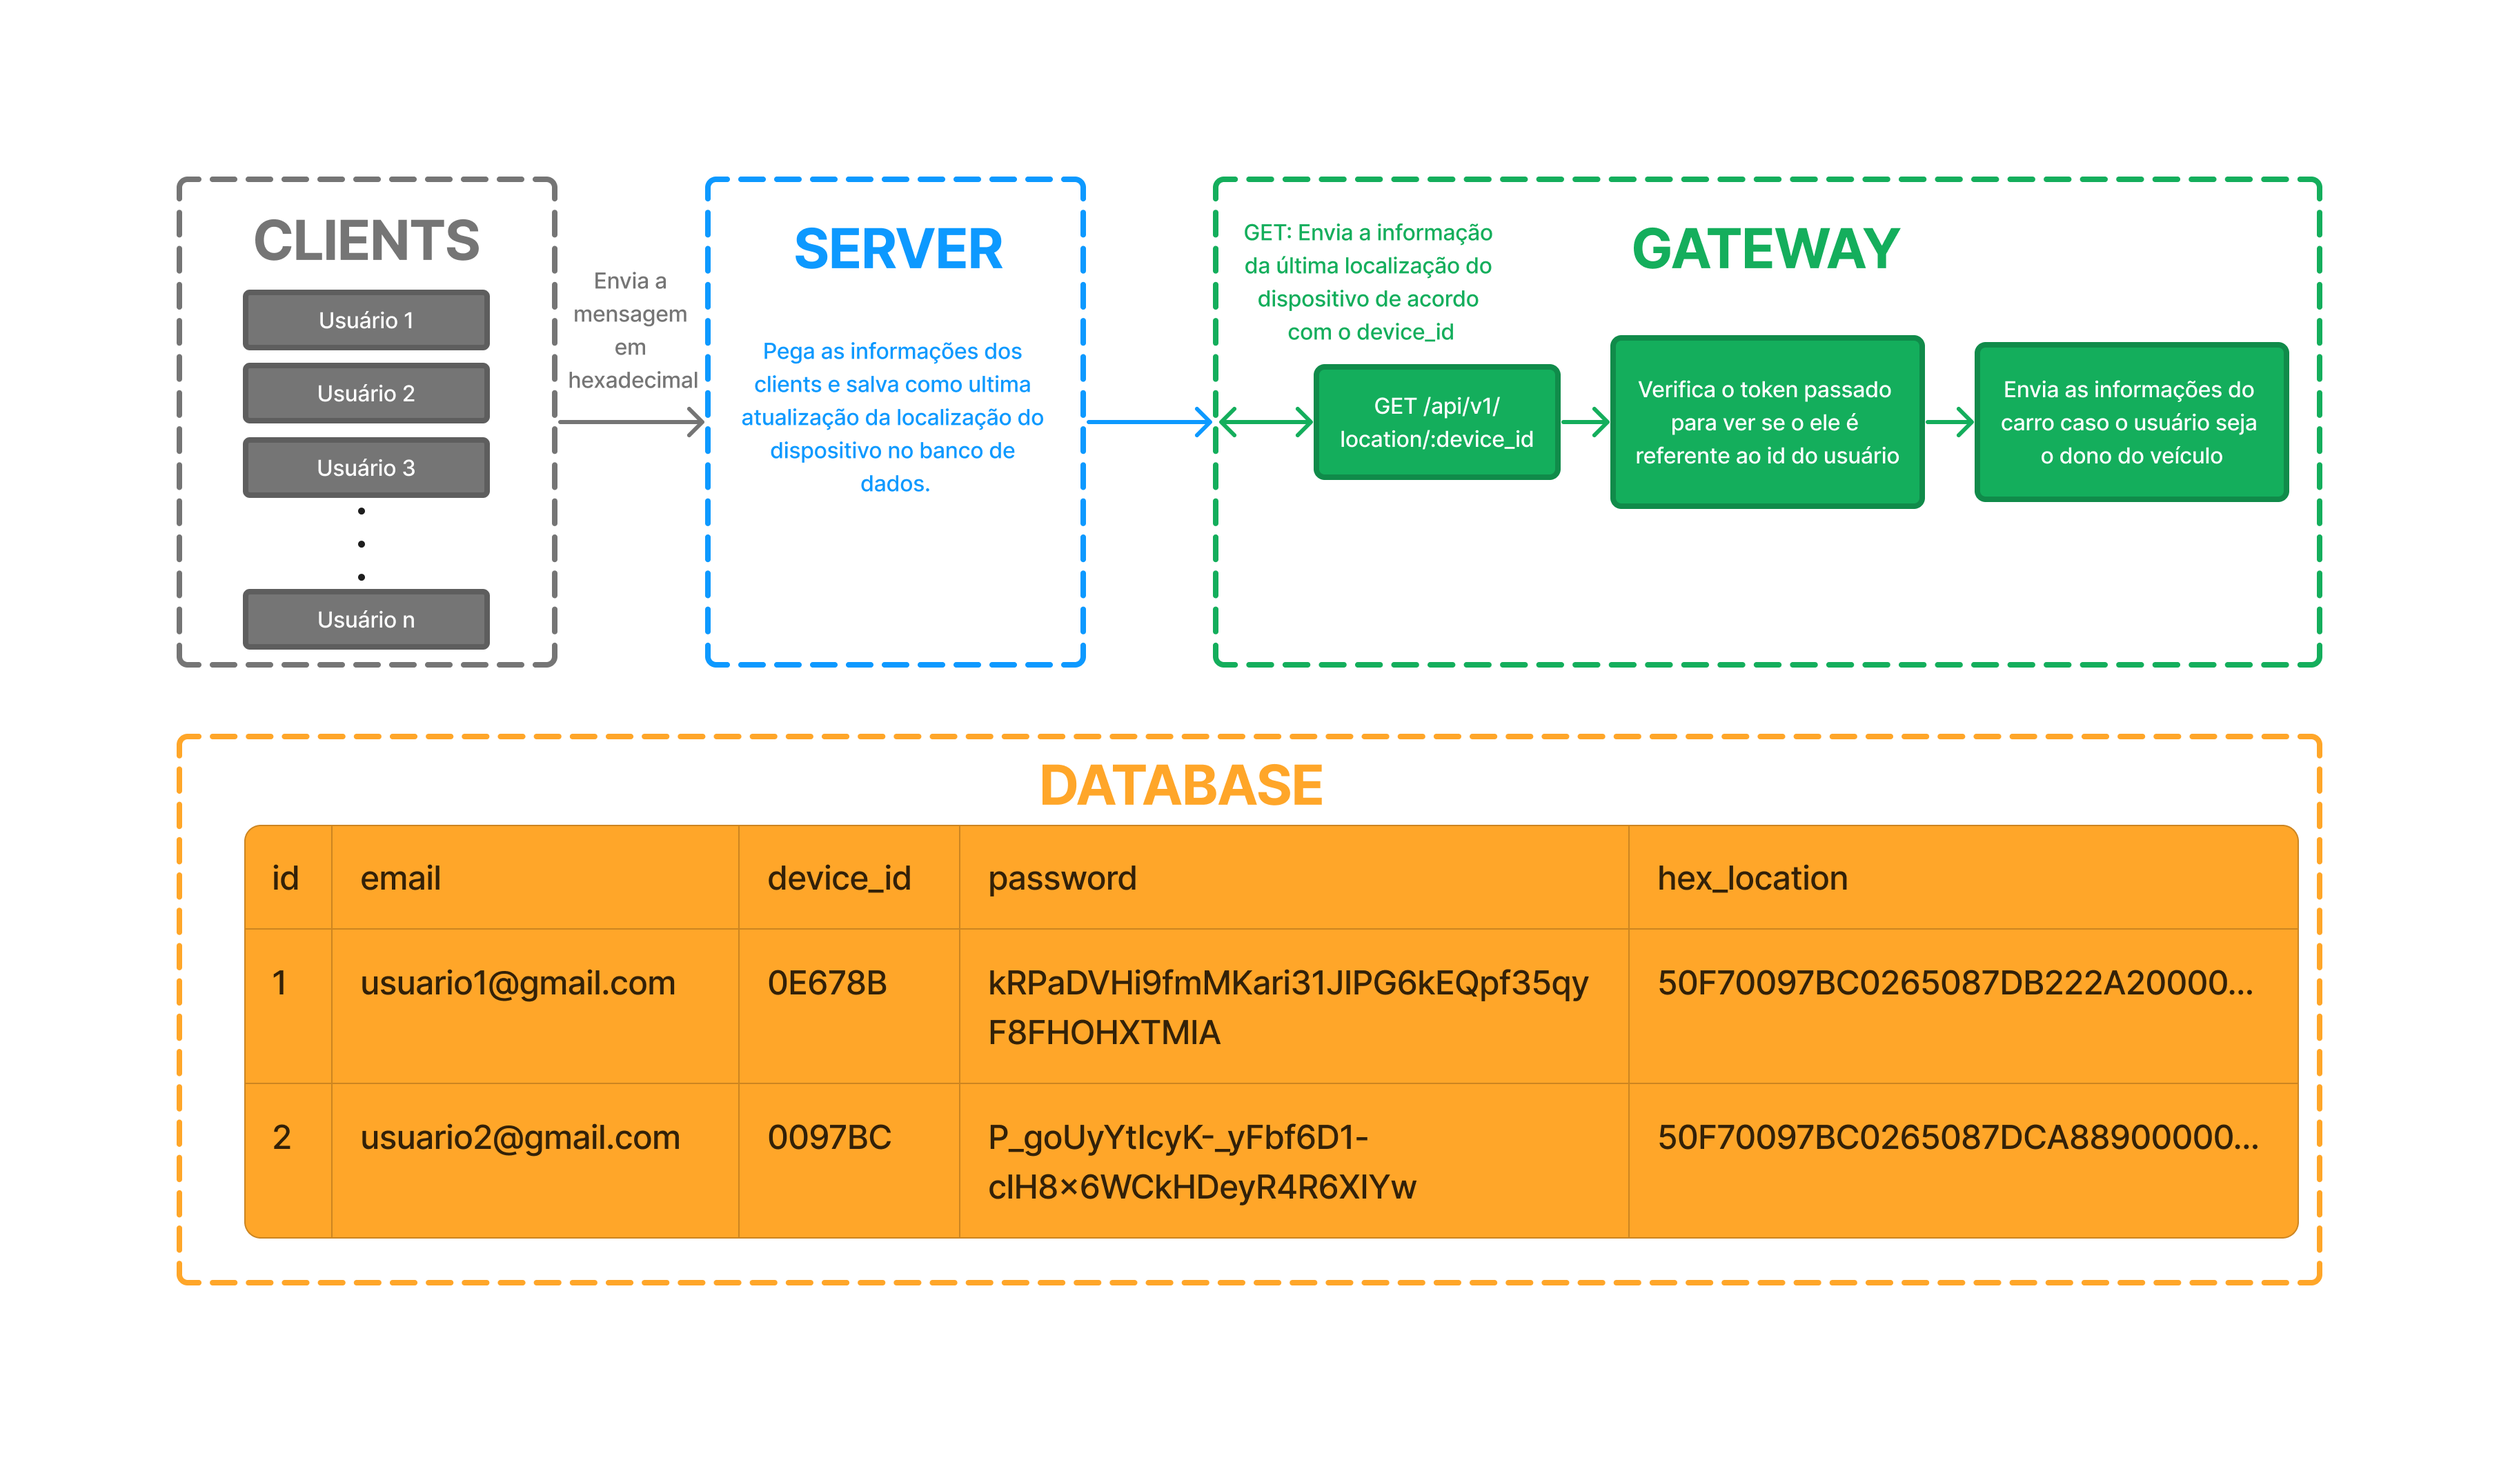
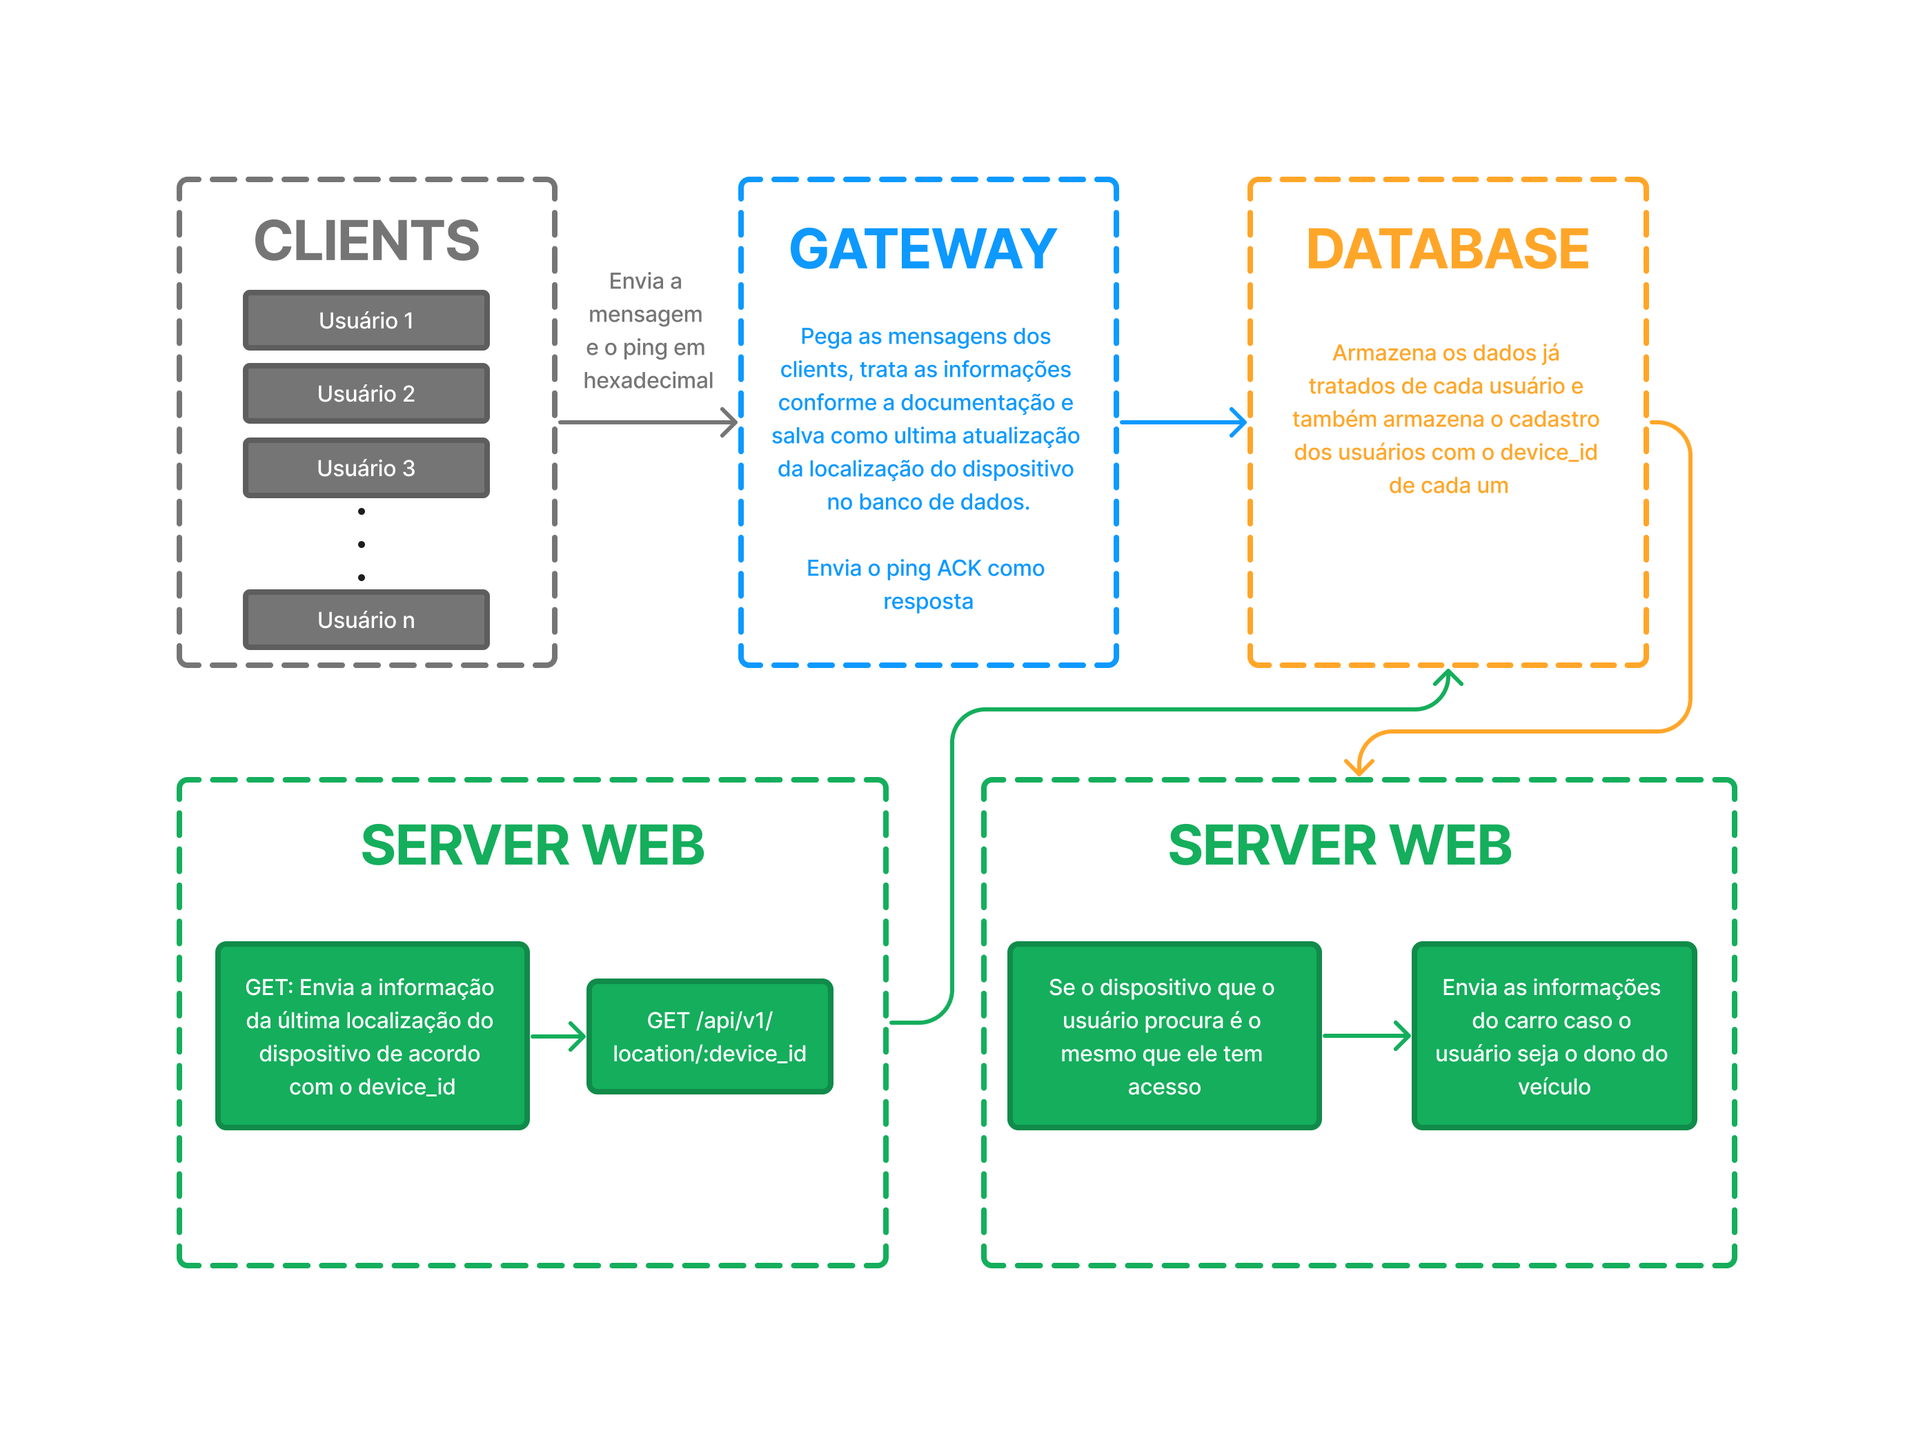
Update README

diff --git a/README.md b/README.md
@@ -2,7 +2,9 @@
 Esse projeto tem o objetivo de tratar os dados recebidos em hexadecimal com informações da localização de veículos dos usuários, transformando esses dados em objetos no formato .json.<br/><br/>
 Na aplicação foram feitos um server e um client para poder simular a conexão dos dispositivos rastresdores dos veículos com os gateways. Além disso, temos um servidor web onde o usuário recebe as informações tratadas do seu veículo por meio do endpoin GET : api/v1/location/:device_id.<br/><br/>
 <img src="/assets/estruturacao.png" /><br/><br/>
-Os dados que são recebidos dos clients são tratados e, posteriormente, guardados no banco de dados, onde serão acessados pela nossa aplicação web. O banco de dados, a arquitetura da aplicação e as tecnologias utilizadas, foram pensados com foco na escalabilidade do projeto, para facilitar novas implementações de endpoints furturos.<br/><br/>
+Os dados que são recebidos dos clients são tratados e, posteriormente, guardados no banco de dados, onde serão acessados pela nossa aplicação web. <br/><br/>
+<img src="/assets/database.png" /><br/><br/>
+O banco de dados, a arquitetura da aplicação e as tecnologias utilizadas, foram pensados com foco na escalabilidade do projeto, para facilitar novas implementações de endpoints furturos.
 O prisma foi usado com o objetivo de poder criar mais tabelas de acordo com as necessidades futuras de forma rápida e fácil. Já a arquitetura, foi pensada para implementar outros endpoints de acordo com as necessidades do cliente, assim como as funções principais foram sparadas para poderem ser reutilizadas futuramente.
 ## Estrutura de pastas e solução
 No projeto, temos como pasta principal a `src`, onde podemos encontrar:
